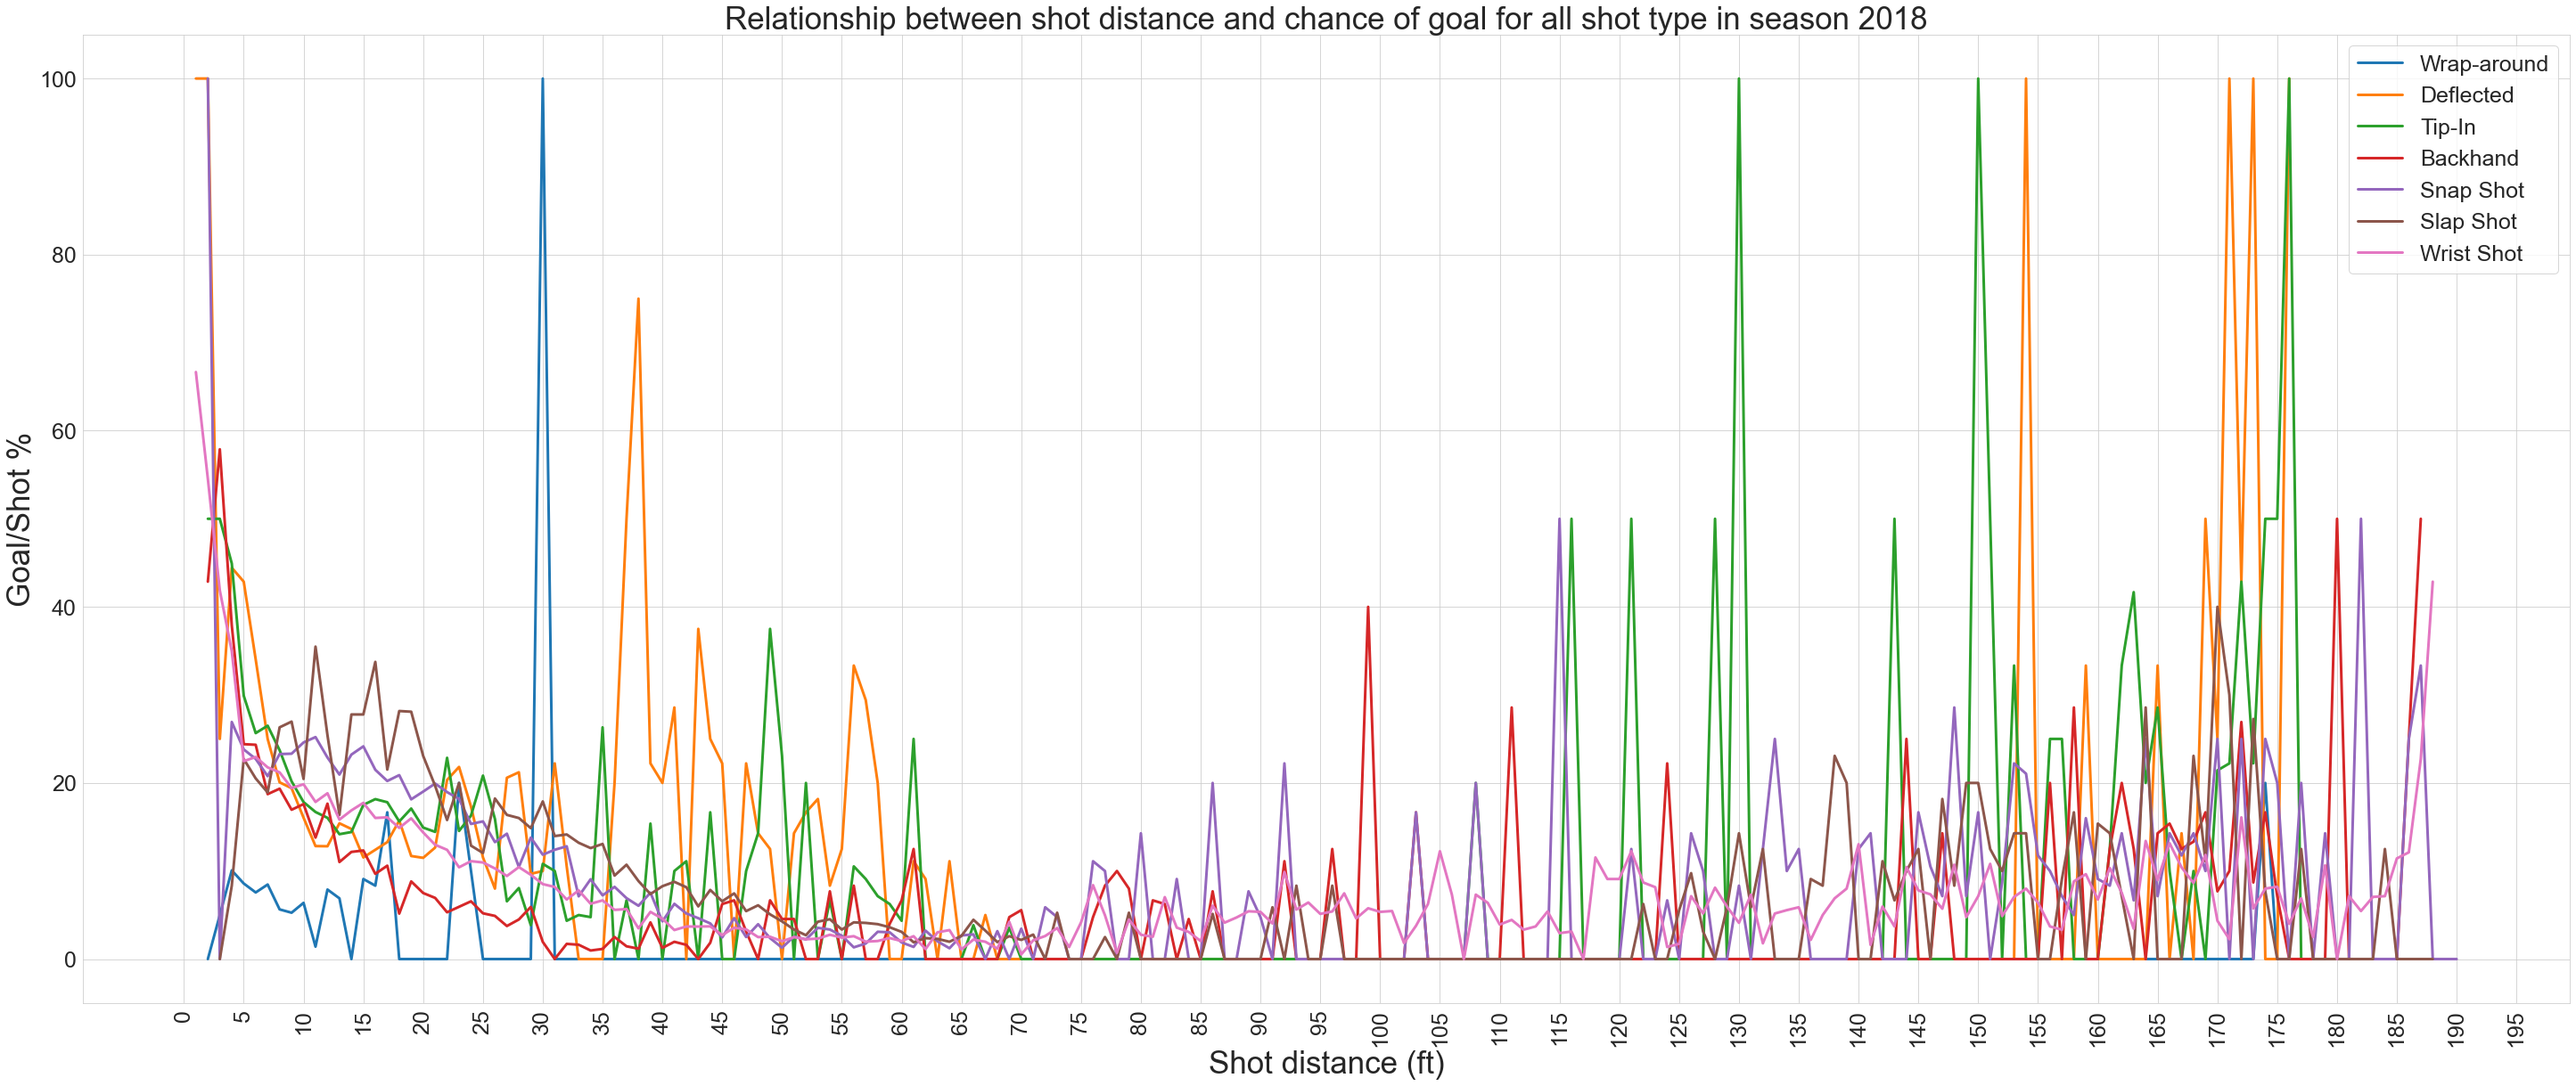
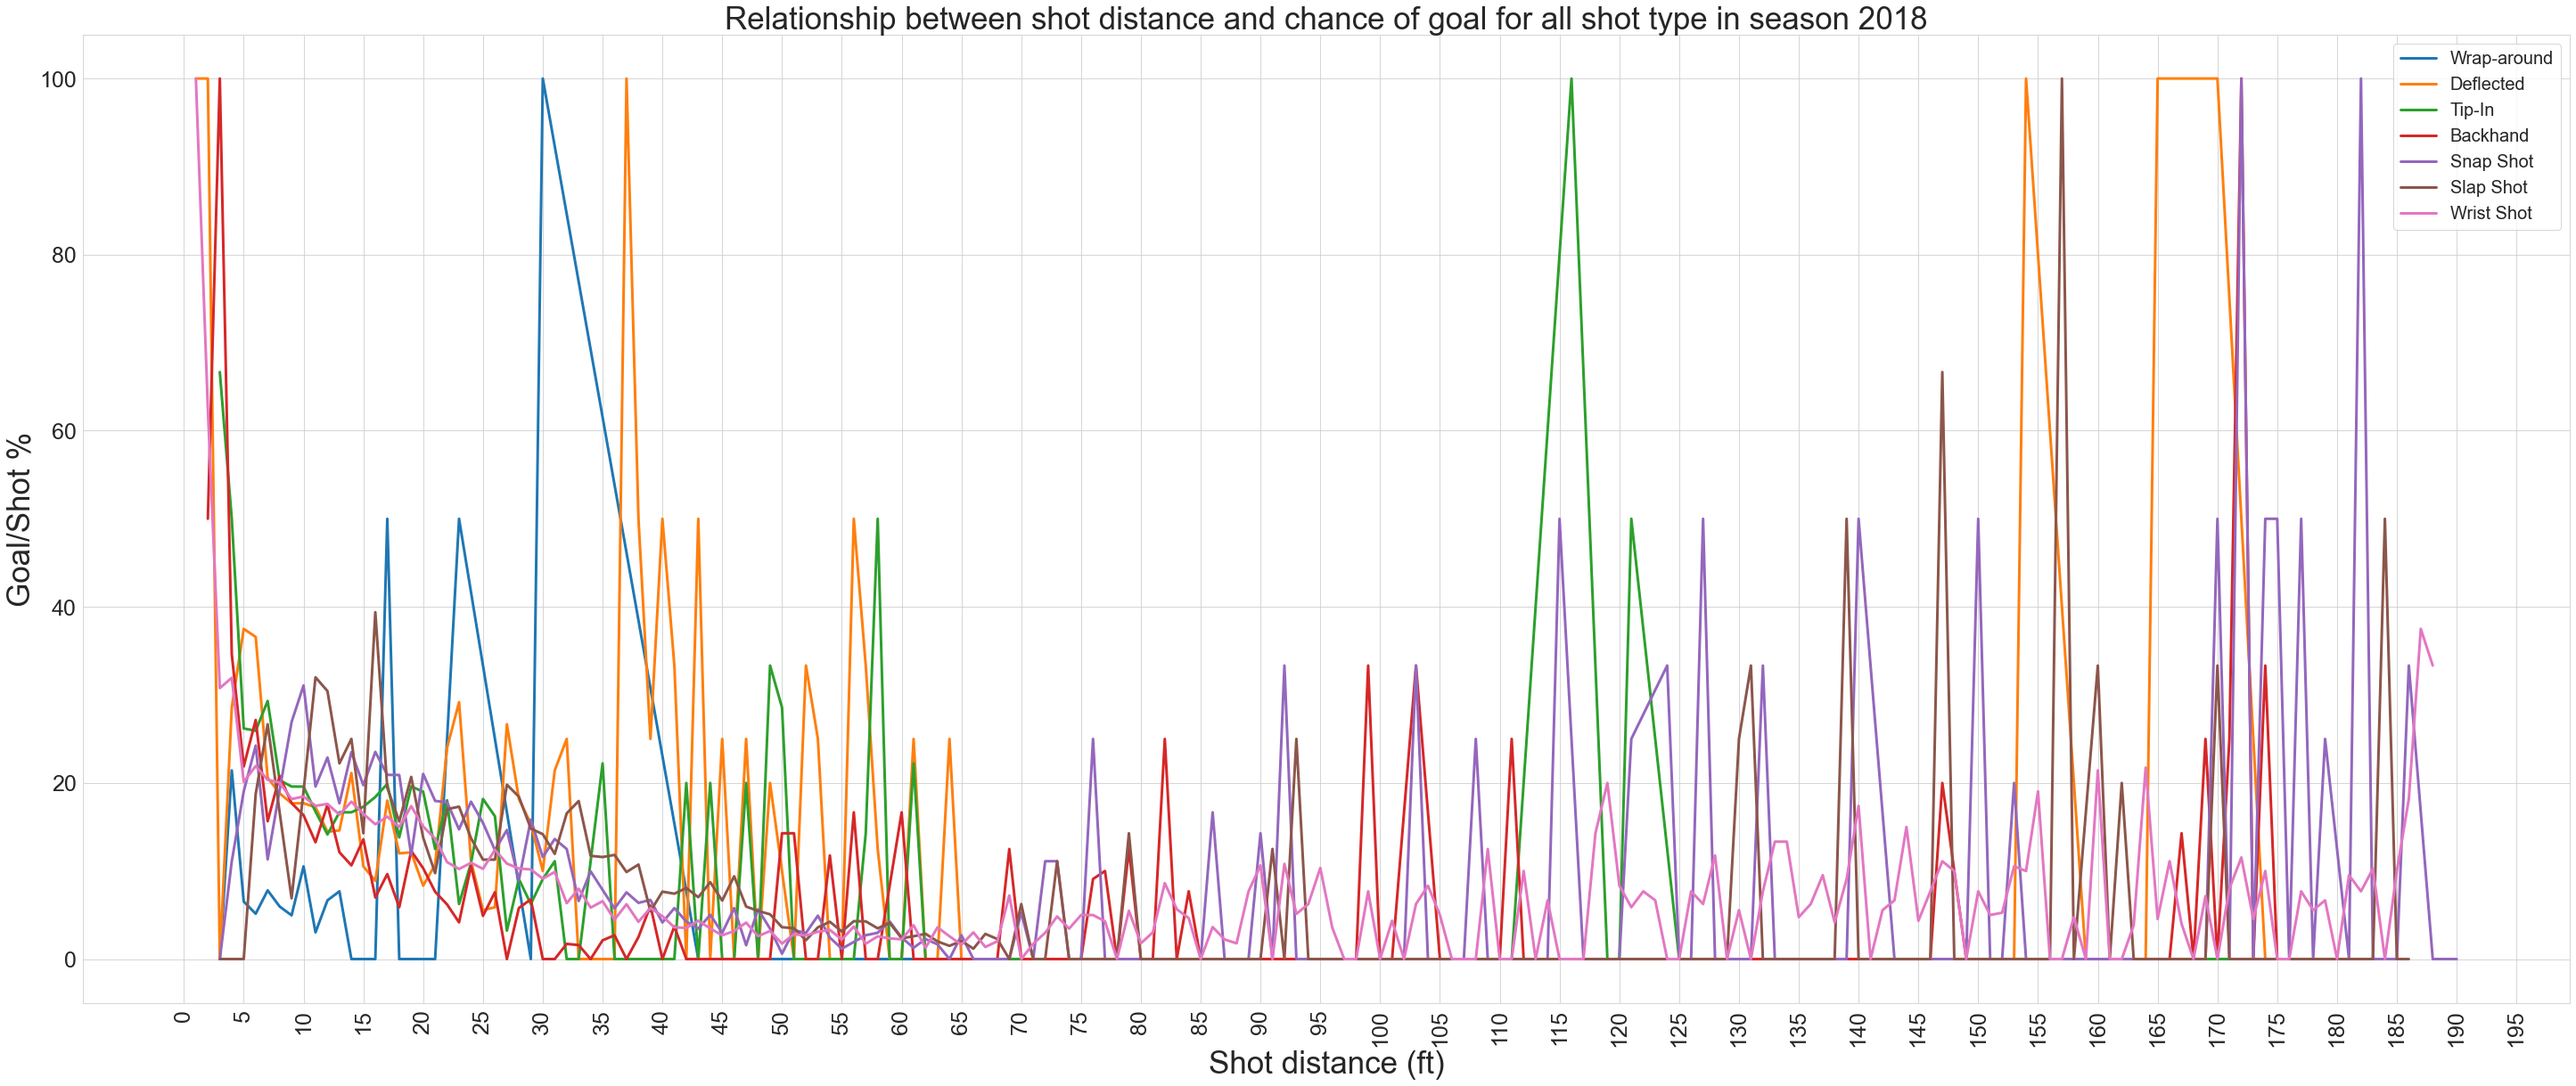
5c edited

Changed region(s): [[0.0623, 0.0312, 0.9965, 0.904]]

diff --git a/_posts/2022-10-06-Milestone-1.md b/_posts/2022-10-06-Milestone-1.md
@@ -224,21 +224,24 @@ We can see that there are some specific shots at specific distances that have al
 
   |Distance from net|Shot type  |
   |--|--|
+  1|Wrest-shop
   1|Deflected
   |2  |Deflected
-2  |Snap-shot
+3  |Backhand
 30|Wrap-around
-130|Tip-in
-150|Tip-in
+37|Deflected
+116|Tip-in
 154|Deflected
-171|Deflected
-173|Deflected
-176|Deflected
-176|Tip-in
+157|Slap-shot
+165|Deflected
+170|Deflected
+172|Snap-shot
+182|Snap-shot
 
-So we can say these shots from these distances were the most dangerous ones.
-Also looking at the figure we can easily see that the higher lines are mostly of the colors green and orange which are
-for the shot types Tip-in and Deflected respectively. So we can say these 2 shots are the most dangerous shots in general(in season 2018).
+So we can say these shots from these distances were the most dangerous ones. Among these 13 situations, 6 of them are
+Deflected shot and 2 of them are Snap-shot.
+Also looking at the figure we can easily see that the higher lines are mostly of the colors purple and orange which are
+for the shot types Snap-shot and Deflected respectively. So we can say these 2 shots are the most dangerous shots in general(in season 2018).
 ## <span style="color:SlateBlue;">Q4: Advanced Visualizations: Shot Maps</span>
 
 **Q1. Export the 4 plot offensive zone plots to HTML, and embed it into your blog post. Your plot must allow users to select any team during the selected season.**
